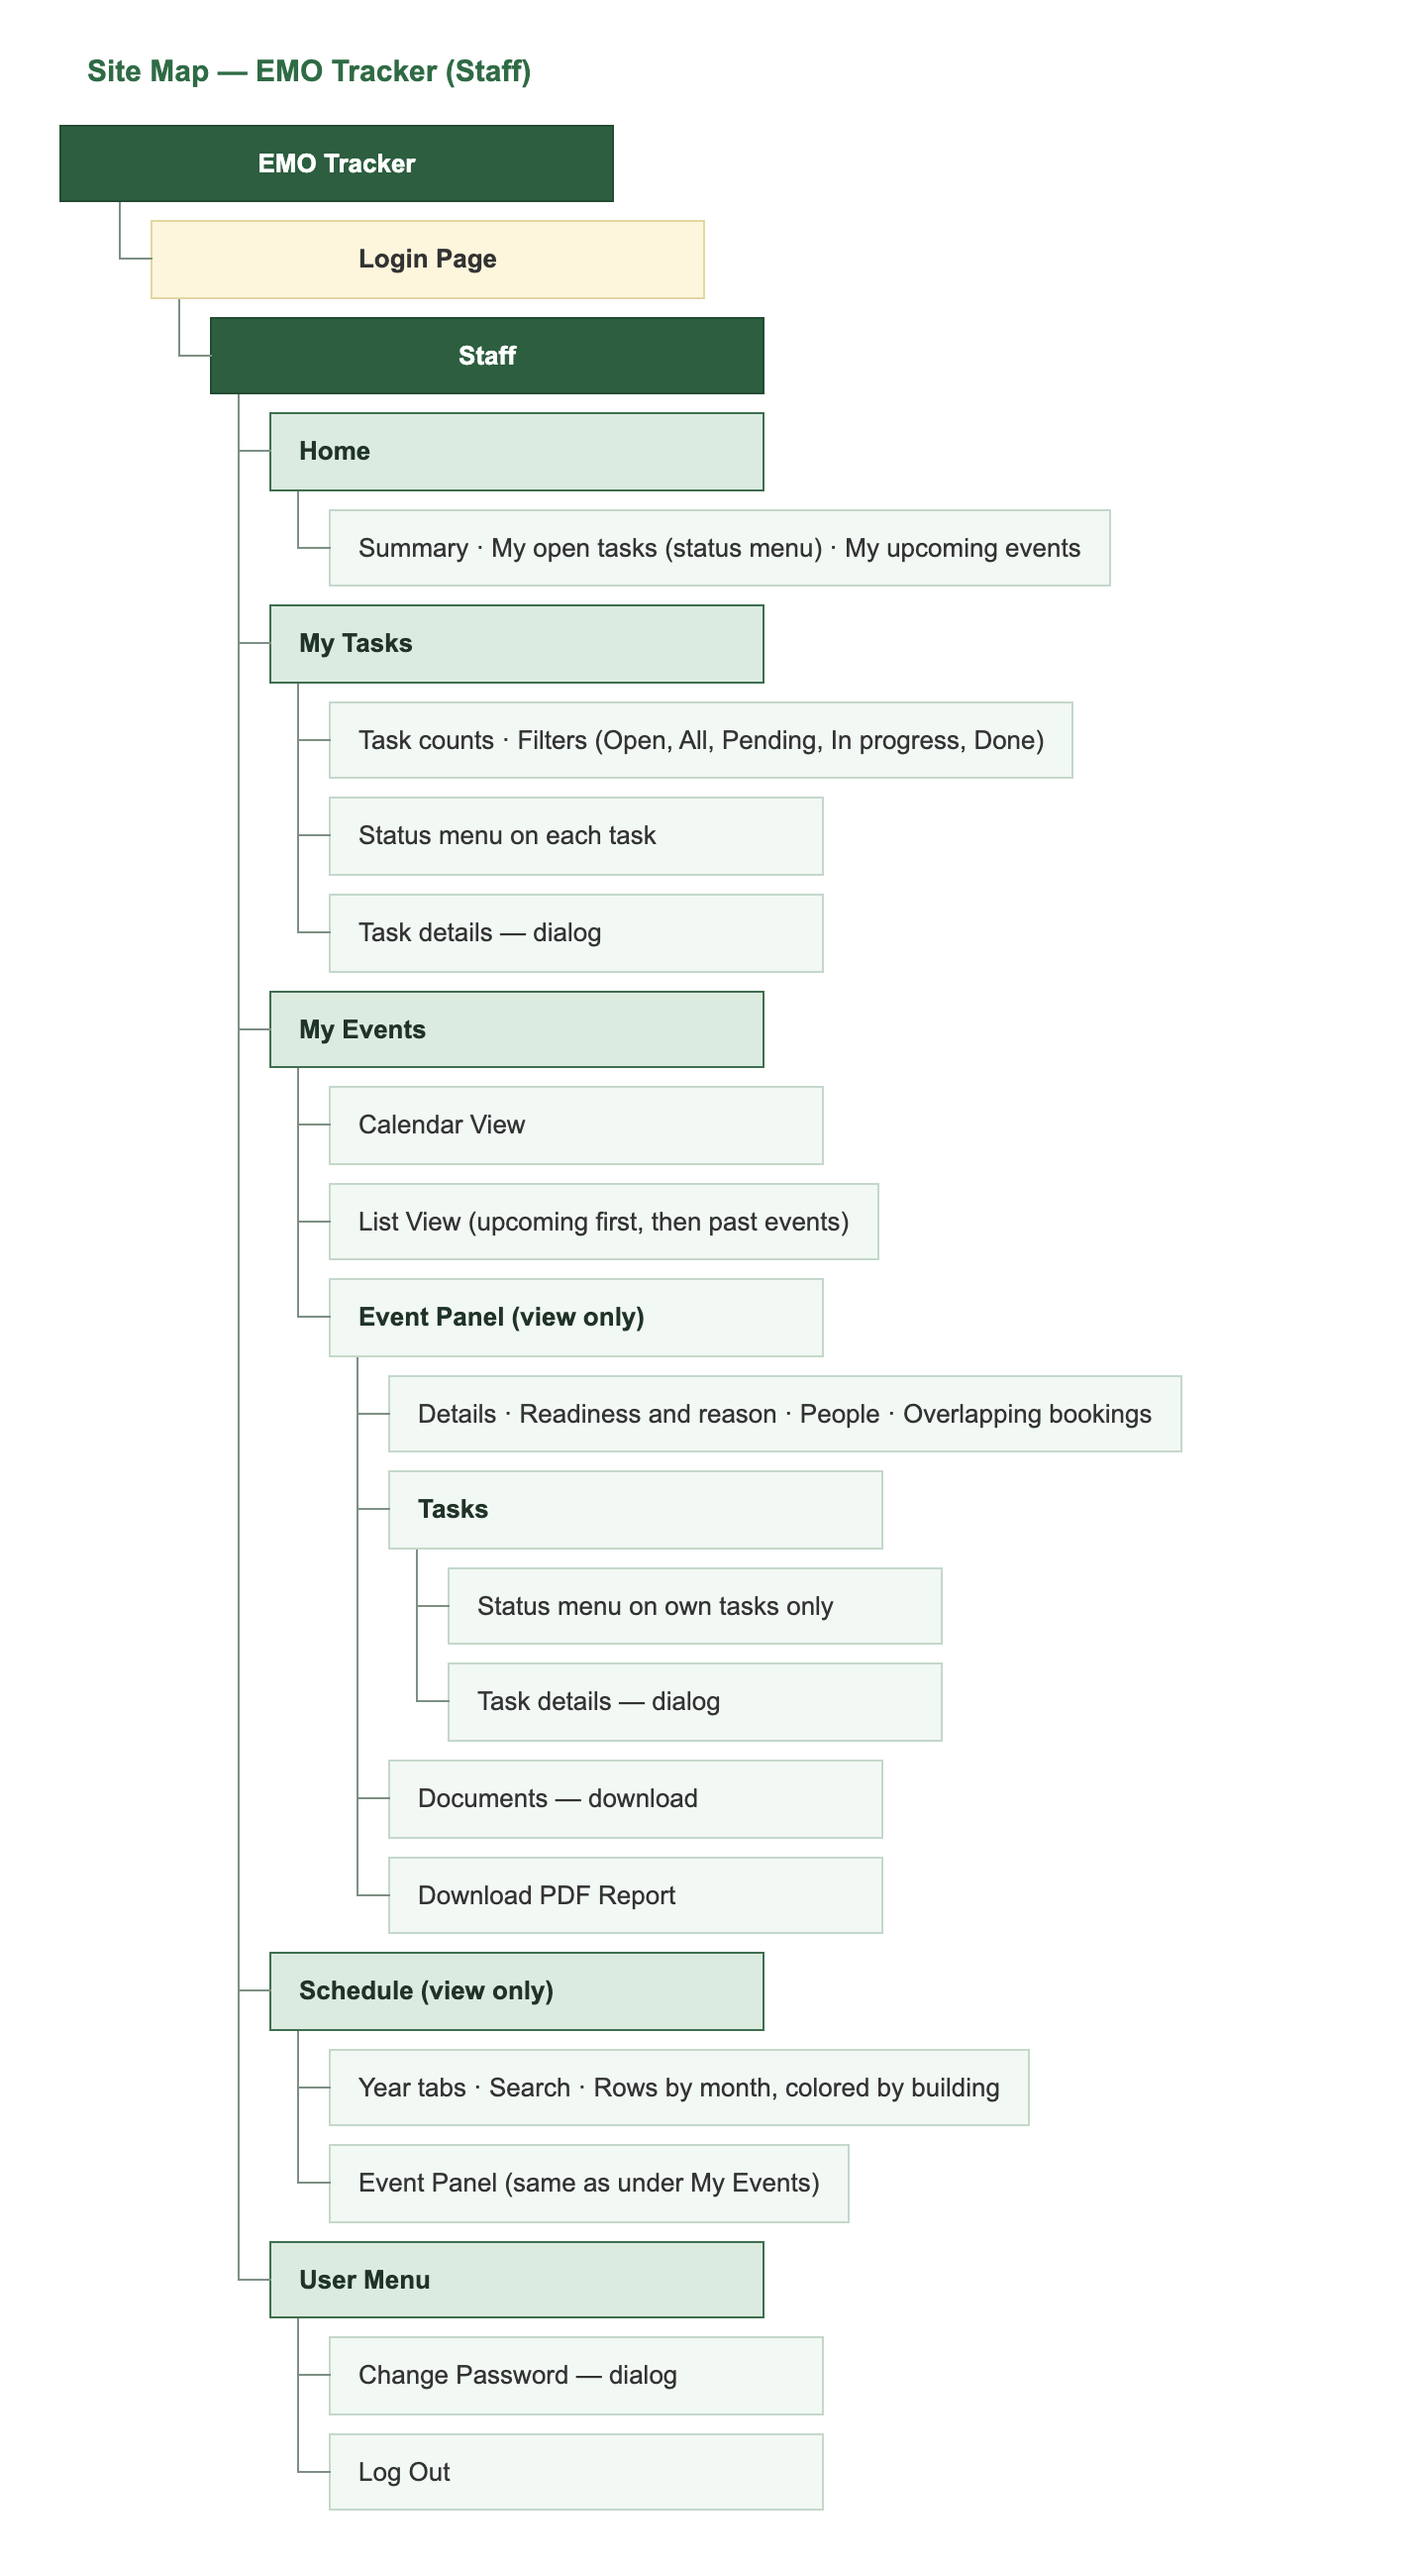
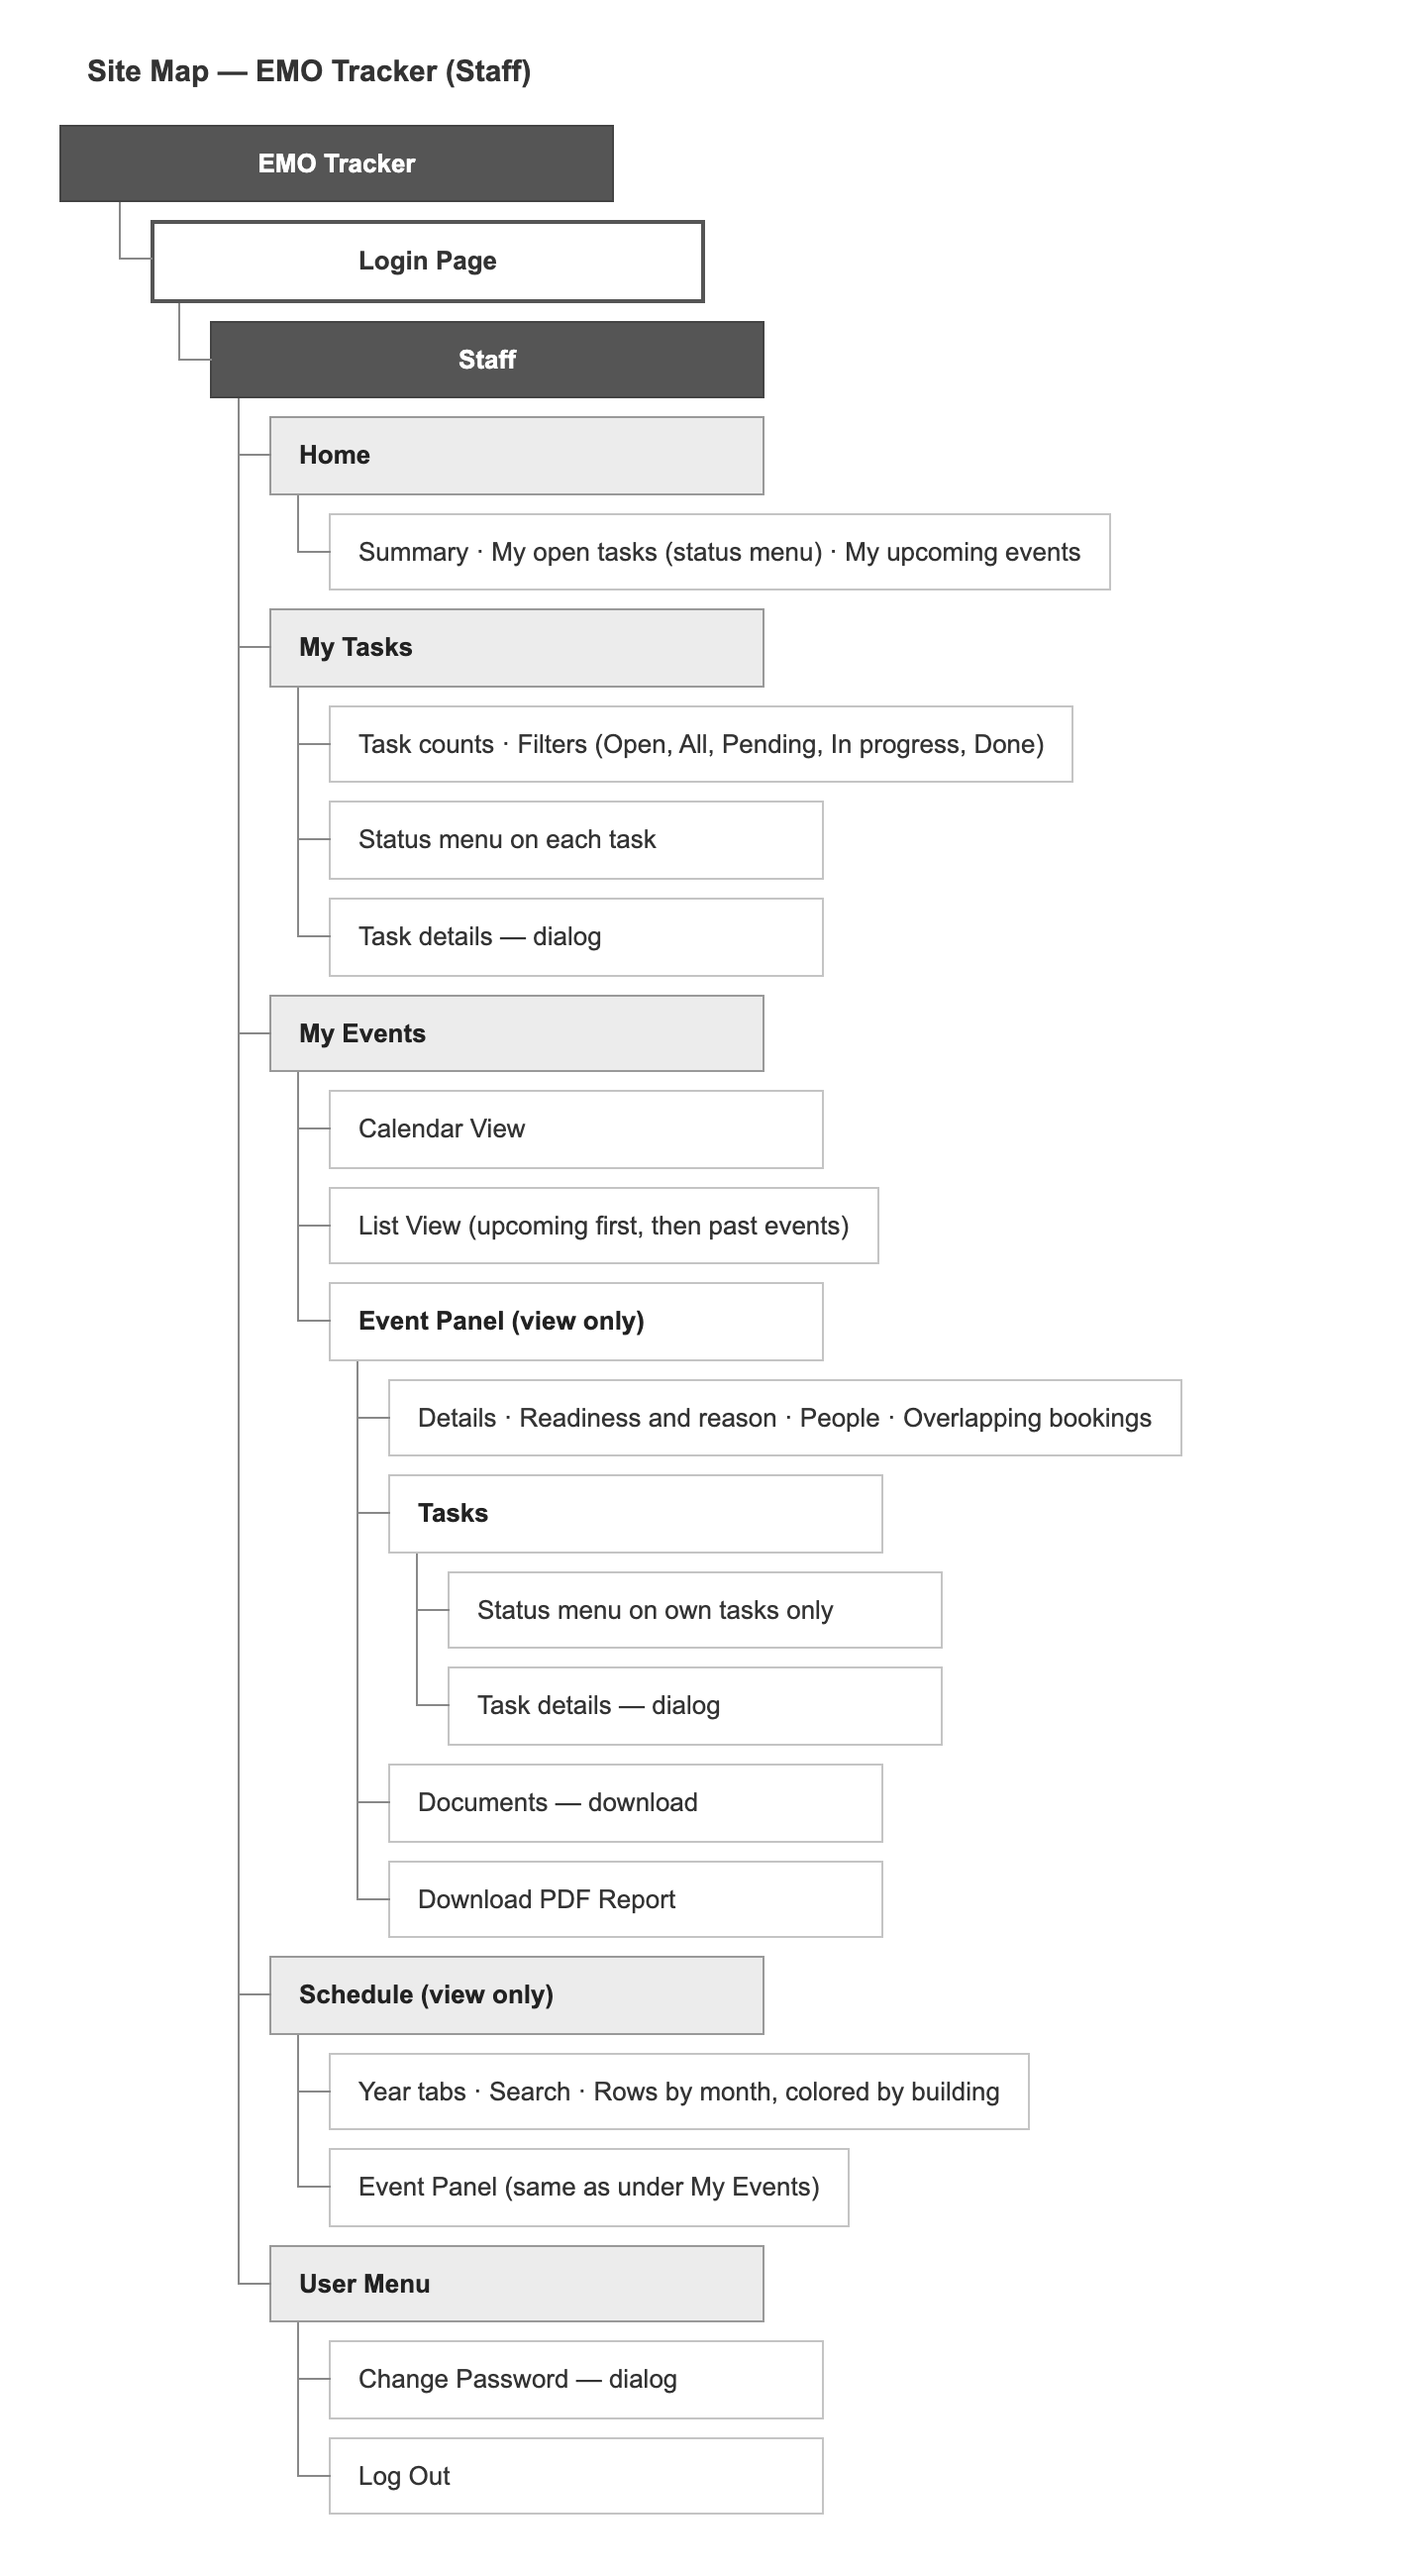
Redo the site maps as indented trees in the paper's figure style

diff --git a/docs/paper/site-maps/src/site-maps.html b/docs/paper/site-maps/src/site-maps.html
@@ -5,23 +5,24 @@
 <title>EMO Tracker site maps</title>
 <!-- Site maps of EMO Tracker, one per role, in the style of the Capstone 1 site maps. Open in a browser to view or print. -->
 <style>
-  body { margin: 0; background: #ffffff; font-family: Arial, Helvetica, sans-serif; color: #222; }
+  /* Same neutral grays as the other Capstone 2 figures; the levels differ by shade. */
+  body { margin: 0; background: #ffffff; font-family: Arial, Helvetica, sans-serif; color: #333; }
   .map { padding: 26px 30px 30px; width: 720px; box-sizing: border-box; background: #fff; }
   .map + .map { margin-top: 40px; }
-  .title { color: #2f6b45; font-weight: bold; font-size: 15px; margin: 0 0 10px 14px; }
+  .title { color: #333; font-weight: bold; font-size: 15px; margin: 0 0 10px 14px; }
   ul { list-style: none; margin: 0; padding: 0 0 0 30px; }
   ul.root { padding-left: 0; }
   li { position: relative; padding-top: 9px; }
   /* Elbow from the parent's line into each box, and the parent's line running on to the next sibling. */
-  ul:not(.root) > li::before { content: ''; position: absolute; left: -16px; top: 0; width: 16px; height: 28px; border-left: 1.5px solid #7d8f83; border-bottom: 1.5px solid #7d8f83; }
-  ul:not(.root) > li::after { content: ''; position: absolute; left: -16px; top: 28px; bottom: 0; border-left: 1.5px solid #7d8f83; }
+  ul:not(.root) > li::before { content: ''; position: absolute; left: -16px; top: 0; width: 16px; height: 28px; border-left: 1.5px solid #888888; border-bottom: 1.5px solid #888888; }
+  ul:not(.root) > li::after { content: ''; position: absolute; left: -16px; top: 28px; bottom: 0; border-left: 1.5px solid #888888; }
   ul:not(.root) > li:last-child::after { display: none; }
   .box { display: inline-block; box-sizing: border-box; min-width: 250px; max-width: 520px; min-height: 38px; padding: 10px 14px; font-size: 13px; line-height: 1.35; border: 1.5px solid; vertical-align: top; }
-  .dark { background: #2c5e3f; border-color: #234c33; color: #fff; font-weight: bold; text-align: center; min-width: 280px; }
-  .login { background: #fdf6dc; border-color: #e3d6a2; text-align: center; font-weight: bold; color: #333; min-width: 280px; }
-  .page { background: #dcebe0; border-color: #3f6e4f; font-weight: bold; color: #1f3326; }
-  .item { background: #f2f8f4; border-color: #c4d8ca; color: #333; }
-  .item.group { font-weight: bold; color: #1f3326; }
+  .dark { background: #555555; border-color: #444444; color: #fff; font-weight: bold; text-align: center; min-width: 280px; }
+  .login { background: #ffffff; border-color: #555555; border-width: 2px; text-align: center; font-weight: bold; color: #333; min-width: 280px; }
+  .page { background: #ececec; border-color: #999999; font-weight: bold; color: #222; }
+  .item { background: #ffffff; border-color: #c4c4c4; color: #333; }
+  .item.group { font-weight: bold; color: #222; }
   .root > li > ul { padding-left: 46px; }
 </style>
 </head>

diff --git a/docs/paper/Diagram_Descriptions.md b/docs/paper/Diagram_Descriptions.md
@@ -305,11 +305,11 @@ This sequence diagram shows what happens when a Staff member marks a task as don
 
 ## Site maps
 
-The three site maps show how the screens of EMO Tracker are organized for each role, in the same style as the Capstone 1 site maps: an indented tree with plain connecting lines. They are drawn from one source file, [site-maps/src/site-maps.html](site-maps/src/site-maps.html), which opens in a browser.
-- **Dark green boxes:** the system, and the role that logs in.
-- **Yellow box:** the login page.
-- **Medium green boxes:** the pages in the role's menu.
-- **Light boxes:** what each page contains: its sections, filters, panels and dialogs. Bold light boxes group the items under them.
+The three site maps show how the screens of EMO Tracker are organized for each role, as an indented tree with plain connecting lines, in the same neutral grays as the other figures. They are drawn from one source file, [site-maps/src/site-maps.html](site-maps/src/site-maps.html), which opens in a browser.
+- **Dark gray boxes:** the system, and the role that logs in.
+- **Outlined white box:** the login page.
+- **Light gray boxes:** the pages in the role's menu.
+- **White boxes:** what each page contains: its sections, filters, panels and dialogs. Bold white boxes group the items under them.
 - **Repeated screens:** the event panel opens from more than one page; it is shown in full once and marked "same as under ..." elsewhere.
 
 ### Site Map: Administrator

diff --git a/docs/paper/CAPSTONE_PAPER_REFERENCE.md b/docs/paper/CAPSTONE_PAPER_REFERENCE.md
@@ -1521,7 +1521,7 @@ Mark each scenario Passed or Failed, and write notes.
 | Data flow diagram, level 1 | [diagrams/dfd-level-1.png](diagrams/dfd-level-1.png) |
 | Class diagram | [diagrams/class-diagram.png](diagrams/class-diagram.png) |
 | Sequence diagrams | in [diagrams/sequence-diagrams/](diagrams/sequence-diagrams/): [1-login.png](diagrams/sequence-diagrams/1-login.png), [2-add-event.png](diagrams/sequence-diagrams/2-add-event.png), [3-task-status-update.png](diagrams/sequence-diagrams/3-task-status-update.png) |
-| Site maps | [site-maps/admin.png](site-maps/admin.png), [site-maps/officer.png](site-maps/officer.png), [site-maps/staff.png](site-maps/staff.png) (Capstone 1 style; source: [site-maps/src/site-maps.html](site-maps/src/site-maps.html)) |
+| Site maps | [site-maps/admin.png](site-maps/admin.png), [site-maps/officer.png](site-maps/officer.png), [site-maps/staff.png](site-maps/staff.png) (indented tree; source: [site-maps/src/site-maps.html](site-maps/src/site-maps.html)) |
 | User journey maps | the four maps in the `journey-maps/` folder (below) |
 | UI wireframes | [wireframes/1-administrator.png](wireframes/1-administrator.png), [wireframes/2-officer.png](wireframes/2-officer.png), [wireframes/3-staff.png](wireframes/3-staff.png) |
 | Gantt chart | [diagrams/gantt-chart.png](diagrams/gantt-chart.png) |
